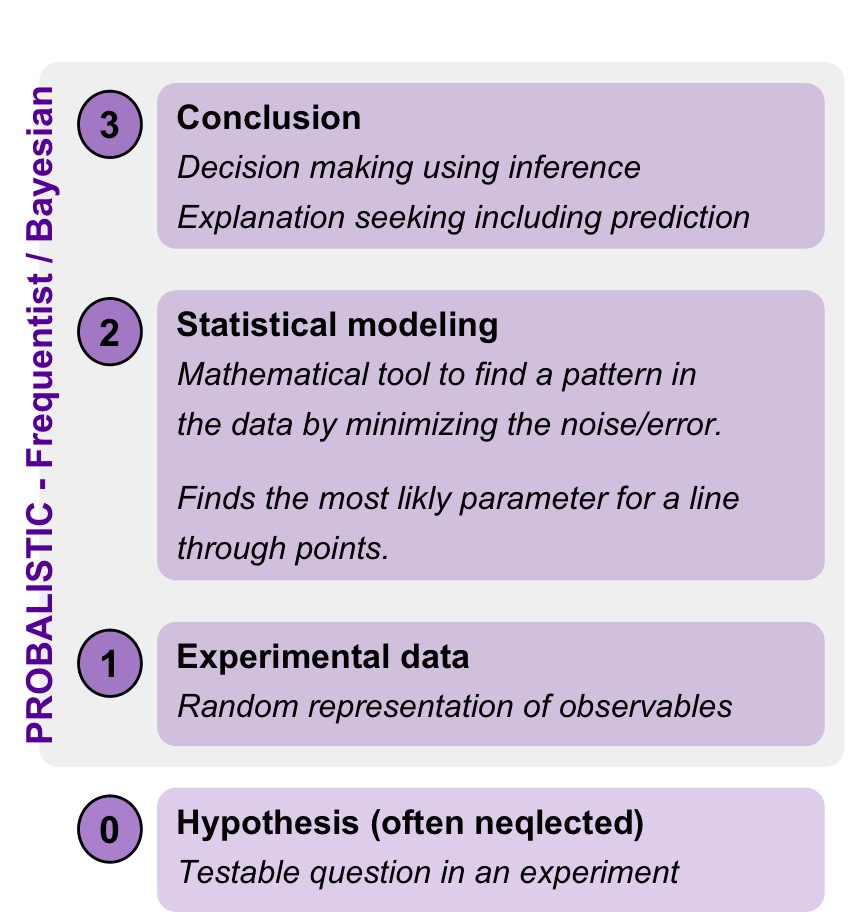
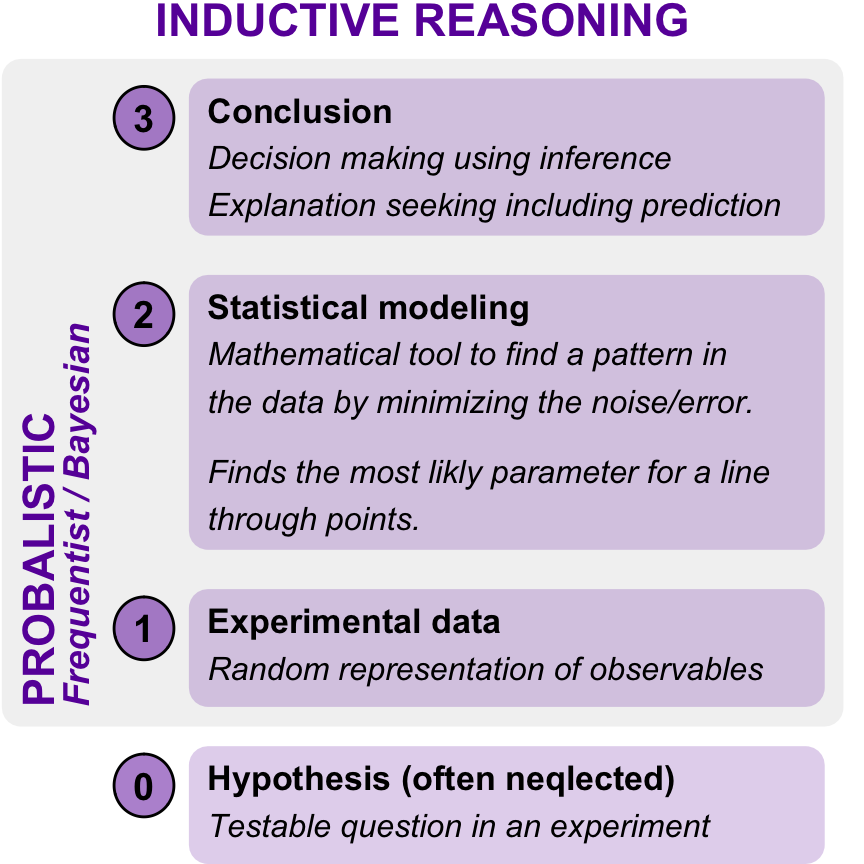
added

Changed region(s): [[0.0, 0.0938, 0.9062, 1.0], [0.1562, 0.0, 0.8125, 0.0625]]

diff --git a/docs/chapter-01-what-is-science.html b/docs/chapter-01-what-is-science.html
@@ -448,7 +448,7 @@ window.Quarto = {
 </header>
 
 
-<p><em>Last modified on 16. January 2026 at 19:18:03</em></p>
+<p><em>Last modified on 16. January 2026 at 19:46:25</em></p>
 <blockquote class="blockquote">
 <p><em>“Reality is negotiable.” — Tim Ferriss</em></p>
 </blockquote>
@@ -1220,7 +1220,7 @@ Figure&nbsp;1.3: fooo.
 <span id="cb1-94"><a href="#cb1-94" aria-hidden="true" tabindex="-1"></a><span class="co">#| echo: false</span></span>
 <span id="cb1-95"><a href="#cb1-95" aria-hidden="true" tabindex="-1"></a><span class="co">#| warning: false</span></span>
 <span id="cb1-96"><a href="#cb1-96" aria-hidden="true" tabindex="-1"></a><span class="co">#| fig-align: center</span></span>
-<span id="cb1-97"><a href="#cb1-97" aria-hidden="true" tabindex="-1"></a><span class="co">#| fig-height: 4.75</span></span>
+<span id="cb1-97"><a href="#cb1-97" aria-hidden="true" tabindex="-1"></a><span class="co">#| fig-height: 4.5</span></span>
 <span id="cb1-98"><a href="#cb1-98" aria-hidden="true" tabindex="-1"></a><span class="co">#| fig-width: 4.5</span></span>
 <span id="cb1-99"><a href="#cb1-99" aria-hidden="true" tabindex="-1"></a><span class="co">#| fig-cap: "fooo."</span></span>
 <span id="cb1-100"><a href="#cb1-100" aria-hidden="true" tabindex="-1"></a><span class="co">#| label: fig-statistic-inductive</span></span>
@@ -1228,11 +1228,11 @@ Figure&nbsp;1.3: fooo.
 <span id="cb1-102"><a href="#cb1-102" aria-hidden="true" tabindex="-1"></a><span class="fu">ggplot</span>() <span class="sc">+</span></span>
 <span id="cb1-103"><a href="#cb1-103" aria-hidden="true" tabindex="-1"></a>  <span class="fu">theme_void</span>() <span class="sc">+</span></span>
 <span id="cb1-104"><a href="#cb1-104" aria-hidden="true" tabindex="-1"></a>  <span class="do">##theme_minimal() +</span></span>
-<span id="cb1-105"><a href="#cb1-105" aria-hidden="true" tabindex="-1"></a>  <span class="fu">coord_cartesian</span>(<span class="at">xlim =</span> <span class="fu">c</span>(<span class="fl">0.5</span>, <span class="fl">10.5</span>), <span class="at">ylim =</span> <span class="fu">c</span>(<span class="fl">0.5</span>, <span class="sc">-</span><span class="fl">9.5</span>)) <span class="sc">+</span></span>
+<span id="cb1-105"><a href="#cb1-105" aria-hidden="true" tabindex="-1"></a>  <span class="fu">coord_cartesian</span>(<span class="at">xlim =</span> <span class="fu">c</span>(<span class="dv">0</span>, <span class="fl">10.5</span>), <span class="at">ylim =</span> <span class="fu">c</span>(<span class="fl">0.5</span>, <span class="sc">-</span><span class="fl">9.5</span>)) <span class="sc">+</span></span>
 <span id="cb1-106"><a href="#cb1-106" aria-hidden="true" tabindex="-1"></a>  <span class="fu">scale_x_continuous</span>(<span class="at">breaks =</span> <span class="fu">seq</span>(<span class="sc">-</span><span class="dv">10</span>, <span class="dv">10</span>, <span class="dv">1</span>)) <span class="sc">+</span></span>
 <span id="cb1-107"><a href="#cb1-107" aria-hidden="true" tabindex="-1"></a>  <span class="fu">scale_y_continuous</span>(<span class="at">breaks =</span> <span class="fu">seq</span>(<span class="sc">-</span><span class="dv">10</span>, <span class="dv">10</span>, <span class="dv">1</span>)) <span class="sc">+</span></span>
 <span id="cb1-108"><a href="#cb1-108" aria-hidden="true" tabindex="-1"></a>  <span class="do">## </span></span>
-<span id="cb1-109"><a href="#cb1-109" aria-hidden="true" tabindex="-1"></a>  <span class="fu">geom_shape</span>(<span class="at">data =</span> <span class="fu">tibble</span>(<span class="at">x =</span> <span class="fu">c</span>(<span class="fl">0.5</span>, <span class="fl">10.75</span>, <span class="fl">10.75</span>, <span class="fl">0.5</span>), </span>
+<span id="cb1-109"><a href="#cb1-109" aria-hidden="true" tabindex="-1"></a>  <span class="fu">geom_shape</span>(<span class="at">data =</span> <span class="fu">tibble</span>(<span class="at">x =</span> <span class="fu">c</span>(<span class="sc">-</span><span class="fl">0.5</span>, <span class="fl">10.75</span>, <span class="fl">10.75</span>, <span class="sc">-</span><span class="fl">0.5</span>), </span>
 <span id="cb1-110"><a href="#cb1-110" aria-hidden="true" tabindex="-1"></a>                           <span class="at">y =</span> <span class="fu">c</span>(<span class="sc">-</span><span class="fl">8.25</span>, <span class="sc">-</span><span class="fl">8.25</span>, <span class="fl">0.25</span>, <span class="fl">0.25</span>)),</span>
 <span id="cb1-111"><a href="#cb1-111" aria-hidden="true" tabindex="-1"></a>             <span class="fu">aes</span>(x, y), <span class="at">radius =</span> <span class="fu">unit</span>(<span class="fl">0.25</span>, <span class="st">'cm'</span>), <span class="at">fill =</span> <span class="st">"gray95"</span>) <span class="sc">+</span></span>
 <span id="cb1-112"><a href="#cb1-112" aria-hidden="true" tabindex="-1"></a>  <span class="do">##</span></span>
@@ -1280,66 +1280,72 @@ Figure&nbsp;1.3: fooo.
 <span id="cb1-154"><a href="#cb1-154" aria-hidden="true" tabindex="-1"></a>              <span class="at">fill =</span> <span class="st">"#6A00A880"</span>) <span class="sc">+</span></span>
 <span id="cb1-155"><a href="#cb1-155" aria-hidden="true" tabindex="-1"></a>  <span class="fu">annotate</span>(<span class="st">"text"</span>, <span class="at">x =</span> <span class="fu">c</span>(<span class="fl">1.5</span>, <span class="fl">1.5</span>, <span class="fl">1.5</span>, <span class="fl">1.5</span>)<span class="sc">-</span><span class="fl">0.1</span>, <span class="at">y =</span> <span class="fu">c</span>(<span class="sc">-</span><span class="fl">0.4</span>, <span class="sc">-</span><span class="fl">2.9</span>, <span class="sc">-</span><span class="fl">6.9</span>, <span class="sc">-</span><span class="fl">8.9</span>)<span class="sc">-</span><span class="fl">0.1</span>, <span class="at">label =</span> <span class="dv">3</span><span class="sc">:</span><span class="dv">0</span>,</span>
 <span id="cb1-156"><a href="#cb1-156" aria-hidden="true" tabindex="-1"></a>           <span class="at">size =</span> <span class="dv">5</span>, <span class="at">fontface =</span> <span class="dv">2</span>, <span class="at">color =</span> <span class="st">"black"</span>) <span class="sc">+</span></span>
-<span id="cb1-157"><a href="#cb1-157" aria-hidden="true" tabindex="-1"></a>  <span class="fu">annotate</span>(<span class="st">"text"</span>, <span class="at">x =</span> <span class="fl">0.5</span>, <span class="at">y =</span> <span class="sc">-</span><span class="dv">4</span>, <span class="at">angle =</span> <span class="dv">90</span>,</span>
-<span id="cb1-158"><a href="#cb1-158" aria-hidden="true" tabindex="-1"></a>           <span class="at">label =</span> <span class="st">"PROBALISTIC - Frequentist / Bayesian"</span>, <span class="at">size =</span> <span class="fl">4.75</span>, <span class="at">fontface =</span> <span class="dv">2</span>, </span>
-<span id="cb1-159"><a href="#cb1-159" aria-hidden="true" tabindex="-1"></a>           <span class="at">color =</span> <span class="st">"#6A00A8FF"</span>)</span>
-<span id="cb1-160"><a href="#cb1-160" aria-hidden="true" tabindex="-1"></a><span class="in">```</span> </span>
-<span id="cb1-161"><a href="#cb1-161" aria-hidden="true" tabindex="-1"></a>  </span>
-<span id="cb1-162"><a href="#cb1-162" aria-hidden="true" tabindex="-1"></a><span class="fu">## What is a good explanation?</span></span>
-<span id="cb1-163"><a href="#cb1-163" aria-hidden="true" tabindex="-1"></a></span>
-<span id="cb1-164"><a href="#cb1-164" aria-hidden="true" tabindex="-1"></a></span>
-<span id="cb1-165"><a href="#cb1-165" aria-hidden="true" tabindex="-1"></a><span class="fu">## Age of enlightment</span></span>
-<span id="cb1-166"><a href="#cb1-166" aria-hidden="true" tabindex="-1"></a></span>
-<span id="cb1-167"><a href="#cb1-167" aria-hidden="true" tabindex="-1"></a></span>
-<span id="cb1-168"><a href="#cb1-168" aria-hidden="true" tabindex="-1"></a><span class="fu">## General background</span></span>
+<span id="cb1-157"><a href="#cb1-157" aria-hidden="true" tabindex="-1"></a>  <span class="fu">annotate</span>(<span class="st">"text"</span>, <span class="at">x =</span> <span class="dv">0</span>, <span class="at">y =</span> <span class="sc">-</span><span class="dv">8</span>, <span class="at">angle =</span> <span class="dv">90</span>, <span class="at">hjust =</span> <span class="st">"left"</span>, </span>
+<span id="cb1-158"><a href="#cb1-158" aria-hidden="true" tabindex="-1"></a>           <span class="at">label =</span> <span class="st">"PROBALISTIC"</span>, <span class="at">size =</span> <span class="fl">5.75</span>, <span class="at">fontface =</span> <span class="dv">2</span>, </span>
+<span id="cb1-159"><a href="#cb1-159" aria-hidden="true" tabindex="-1"></a>           <span class="at">color =</span> <span class="st">"#6A00A8FF"</span>) <span class="sc">+</span></span>
+<span id="cb1-160"><a href="#cb1-160" aria-hidden="true" tabindex="-1"></a>  <span class="fu">annotate</span>(<span class="st">"text"</span>, <span class="at">x =</span> <span class="fl">0.5</span>, <span class="at">y =</span> <span class="sc">-</span><span class="dv">8</span>, <span class="at">angle =</span> <span class="dv">90</span>, <span class="at">hjust =</span> <span class="st">"left"</span>,</span>
+<span id="cb1-161"><a href="#cb1-161" aria-hidden="true" tabindex="-1"></a>           <span class="at">label =</span> <span class="st">"Frequentist / Bayesian"</span>, <span class="at">size =</span> <span class="fl">4.75</span>, <span class="at">fontface =</span> <span class="dv">4</span>, </span>
+<span id="cb1-162"><a href="#cb1-162" aria-hidden="true" tabindex="-1"></a>           <span class="at">color =</span> <span class="st">"#6A00A8FF"</span>) <span class="sc">+</span></span>
+<span id="cb1-163"><a href="#cb1-163" aria-hidden="true" tabindex="-1"></a>  <span class="fu">annotate</span>(<span class="st">"text"</span>, <span class="at">x =</span> <span class="fl">5.125</span>, <span class="at">y =</span> <span class="fl">0.75</span>, </span>
+<span id="cb1-164"><a href="#cb1-164" aria-hidden="true" tabindex="-1"></a>           <span class="at">label =</span> <span class="st">"INDUCTIVE REASONING"</span>, <span class="at">size =</span> <span class="dv">6</span>, <span class="at">fontface =</span> <span class="dv">2</span>, </span>
+<span id="cb1-165"><a href="#cb1-165" aria-hidden="true" tabindex="-1"></a>           <span class="at">color =</span> <span class="st">"#6A00A8FF"</span>)</span>
+<span id="cb1-166"><a href="#cb1-166" aria-hidden="true" tabindex="-1"></a><span class="in">```</span> </span>
+<span id="cb1-167"><a href="#cb1-167" aria-hidden="true" tabindex="-1"></a>  </span>
+<span id="cb1-168"><a href="#cb1-168" aria-hidden="true" tabindex="-1"></a><span class="fu">## What is a good explanation?</span></span>
 <span id="cb1-169"><a href="#cb1-169" aria-hidden="true" tabindex="-1"></a></span>
-<span id="cb1-170"><a href="#cb1-170" aria-hidden="true" tabindex="-1"></a><span class="at">&gt; *"Any sufficiently advanced technology is indistinguishable from magic." --- Arthur C. Clarke's Third Law @clarke1968clarke*</span></span>
-<span id="cb1-171"><a href="#cb1-171" aria-hidden="true" tabindex="-1"></a></span>
-<span id="cb1-172"><a href="#cb1-172" aria-hidden="true" tabindex="-1"></a>Full quote</span>
+<span id="cb1-170"><a href="#cb1-170" aria-hidden="true" tabindex="-1"></a></span>
+<span id="cb1-171"><a href="#cb1-171" aria-hidden="true" tabindex="-1"></a><span class="fu">## Age of enlightment</span></span>
+<span id="cb1-172"><a href="#cb1-172" aria-hidden="true" tabindex="-1"></a></span>
 <span id="cb1-173"><a href="#cb1-173" aria-hidden="true" tabindex="-1"></a></span>
-<span id="cb1-174"><a href="#cb1-174" aria-hidden="true" tabindex="-1"></a><span class="at">&gt; *"Reality is negotiable. Outside of science and law, all rules can be bent or broken, and it doesn’t require being unethical." --- Tim Ferriss*</span></span>
+<span id="cb1-174"><a href="#cb1-174" aria-hidden="true" tabindex="-1"></a><span class="fu">## General background</span></span>
 <span id="cb1-175"><a href="#cb1-175" aria-hidden="true" tabindex="-1"></a></span>
-<span id="cb1-176"><a href="#cb1-176" aria-hidden="true" tabindex="-1"></a>Idea of hypotheses</span>
+<span id="cb1-176"><a href="#cb1-176" aria-hidden="true" tabindex="-1"></a><span class="at">&gt; *"Any sufficiently advanced technology is indistinguishable from magic." --- Arthur C. Clarke's Third Law @clarke1968clarke*</span></span>
 <span id="cb1-177"><a href="#cb1-177" aria-hidden="true" tabindex="-1"></a></span>
-<span id="cb1-178"><a href="#cb1-178" aria-hidden="true" tabindex="-1"></a>Science is guessing and falsification</span>
+<span id="cb1-178"><a href="#cb1-178" aria-hidden="true" tabindex="-1"></a>Full quote</span>
 <span id="cb1-179"><a href="#cb1-179" aria-hidden="true" tabindex="-1"></a></span>
-<span id="cb1-180"><a href="#cb1-180" aria-hidden="true" tabindex="-1"></a>@chalmers2013thing <span class="co">[</span><span class="ot">What is this thing called Science?</span><span class="co">](https://www.pmf.unizg.hr/_download/repository/1._Dodatna_literatura_%28filozofija_znanosti%29%5B3%5D.pdf)</span></span>
+<span id="cb1-180"><a href="#cb1-180" aria-hidden="true" tabindex="-1"></a><span class="at">&gt; *"Reality is negotiable. Outside of science and law, all rules can be bent or broken, and it doesn’t require being unethical." --- Tim Ferriss*</span></span>
 <span id="cb1-181"><a href="#cb1-181" aria-hidden="true" tabindex="-1"></a></span>
-<span id="cb1-182"><a href="#cb1-182" aria-hidden="true" tabindex="-1"></a>@feynman1966science <span class="co">[</span><span class="ot">What is science</span><span class="co">](https://www-oc.chemie.uni-regensburg.de/diaz/media/docs/feynman_what-is-science_68.pdf)</span></span>
+<span id="cb1-182"><a href="#cb1-182" aria-hidden="true" tabindex="-1"></a>Idea of hypotheses</span>
 <span id="cb1-183"><a href="#cb1-183" aria-hidden="true" tabindex="-1"></a></span>
-<span id="cb1-184"><a href="#cb1-184" aria-hidden="true" tabindex="-1"></a>@campbell1952science <span class="co">[</span><span class="ot">What is science?</span><span class="co">](https://www.whatisscience.info/files/what_is_science_rd1.pdf)</span></span>
+<span id="cb1-184"><a href="#cb1-184" aria-hidden="true" tabindex="-1"></a>Science is guessing and falsification</span>
 <span id="cb1-185"><a href="#cb1-185" aria-hidden="true" tabindex="-1"></a></span>
-<span id="cb1-186"><a href="#cb1-186" aria-hidden="true" tabindex="-1"></a>@clark2025models <span class="co">[</span><span class="ot">Models Demystified: A Practical Guide from Linear Regression to Deep Learning</span><span class="co">](https://m-clark.github.io/book-of-models/)</span></span>
+<span id="cb1-186"><a href="#cb1-186" aria-hidden="true" tabindex="-1"></a>@chalmers2013thing <span class="co">[</span><span class="ot">What is this thing called Science?</span><span class="co">](https://www.pmf.unizg.hr/_download/repository/1._Dodatna_literatura_%28filozofija_znanosti%29%5B3%5D.pdf)</span></span>
 <span id="cb1-187"><a href="#cb1-187" aria-hidden="true" tabindex="-1"></a></span>
-<span id="cb1-188"><a href="#cb1-188" aria-hidden="true" tabindex="-1"></a>@cox2017statistical <span class="co">[</span><span class="ot">Statistical Thinking for the 21st Century</span><span class="co">](https://statsthinking21.github.io/statsthinking21-core-site/index.html)</span></span>
+<span id="cb1-188"><a href="#cb1-188" aria-hidden="true" tabindex="-1"></a>@feynman1966science <span class="co">[</span><span class="ot">What is science</span><span class="co">](https://www-oc.chemie.uni-regensburg.de/diaz/media/docs/feynman_what-is-science_68.pdf)</span></span>
 <span id="cb1-189"><a href="#cb1-189" aria-hidden="true" tabindex="-1"></a></span>
-<span id="cb1-190"><a href="#cb1-190" aria-hidden="true" tabindex="-1"></a>@deutsch2011beginning <span class="co">[</span><span class="ot">The beginning of infinity: Explanations that transform the world</span><span class="co">](https://www.academia.edu/download/106176299/rtx120400544p.pdf)</span></span>
+<span id="cb1-190"><a href="#cb1-190" aria-hidden="true" tabindex="-1"></a>@campbell1952science <span class="co">[</span><span class="ot">What is science?</span><span class="co">](https://www.whatisscience.info/files/what_is_science_rd1.pdf)</span></span>
 <span id="cb1-191"><a href="#cb1-191" aria-hidden="true" tabindex="-1"></a></span>
-<span id="cb1-192"><a href="#cb1-192" aria-hidden="true" tabindex="-1"></a><span class="co">[</span><span class="ot">David Deutsch &gt; Quotes</span><span class="co">](https://www.goodreads.com/author/quotes/103190.David_Deutsch)</span></span>
+<span id="cb1-192"><a href="#cb1-192" aria-hidden="true" tabindex="-1"></a>@clark2025models <span class="co">[</span><span class="ot">Models Demystified: A Practical Guide from Linear Regression to Deep Learning</span><span class="co">](https://m-clark.github.io/book-of-models/)</span></span>
 <span id="cb1-193"><a href="#cb1-193" aria-hidden="true" tabindex="-1"></a></span>
-<span id="cb1-194"><a href="#cb1-194" aria-hidden="true" tabindex="-1"></a><span class="fu">## Theoretical background</span></span>
+<span id="cb1-194"><a href="#cb1-194" aria-hidden="true" tabindex="-1"></a>@cox2017statistical <span class="co">[</span><span class="ot">Statistical Thinking for the 21st Century</span><span class="co">](https://statsthinking21.github.io/statsthinking21-core-site/index.html)</span></span>
 <span id="cb1-195"><a href="#cb1-195" aria-hidden="true" tabindex="-1"></a></span>
-<span id="cb1-196"><a href="#cb1-196" aria-hidden="true" tabindex="-1"></a><span class="fu">## R packages used</span></span>
+<span id="cb1-196"><a href="#cb1-196" aria-hidden="true" tabindex="-1"></a>@deutsch2011beginning <span class="co">[</span><span class="ot">The beginning of infinity: Explanations that transform the world</span><span class="co">](https://www.academia.edu/download/106176299/rtx120400544p.pdf)</span></span>
 <span id="cb1-197"><a href="#cb1-197" aria-hidden="true" tabindex="-1"></a></span>
-<span id="cb1-198"><a href="#cb1-198" aria-hidden="true" tabindex="-1"></a><span class="fu">## Data</span></span>
+<span id="cb1-198"><a href="#cb1-198" aria-hidden="true" tabindex="-1"></a><span class="co">[</span><span class="ot">David Deutsch &gt; Quotes</span><span class="co">](https://www.goodreads.com/author/quotes/103190.David_Deutsch)</span></span>
 <span id="cb1-199"><a href="#cb1-199" aria-hidden="true" tabindex="-1"></a></span>
-<span id="cb1-200"><a href="#cb1-200" aria-hidden="true" tabindex="-1"></a><span class="fu">## Alternatives </span></span>
+<span id="cb1-200"><a href="#cb1-200" aria-hidden="true" tabindex="-1"></a><span class="fu">## Theoretical background</span></span>
 <span id="cb1-201"><a href="#cb1-201" aria-hidden="true" tabindex="-1"></a></span>
-<span id="cb1-202"><a href="#cb1-202" aria-hidden="true" tabindex="-1"></a>Further tutorials and R packages on XXX</span>
+<span id="cb1-202"><a href="#cb1-202" aria-hidden="true" tabindex="-1"></a><span class="fu">## R packages used</span></span>
 <span id="cb1-203"><a href="#cb1-203" aria-hidden="true" tabindex="-1"></a></span>
-<span id="cb1-204"><a href="#cb1-204" aria-hidden="true" tabindex="-1"></a><span class="fu">## Glossary</span></span>
+<span id="cb1-204"><a href="#cb1-204" aria-hidden="true" tabindex="-1"></a><span class="fu">## Data</span></span>
 <span id="cb1-205"><a href="#cb1-205" aria-hidden="true" tabindex="-1"></a></span>
-<span id="cb1-206"><a href="#cb1-206" aria-hidden="true" tabindex="-1"></a>term</span>
+<span id="cb1-206"><a href="#cb1-206" aria-hidden="true" tabindex="-1"></a><span class="fu">## Alternatives </span></span>
 <span id="cb1-207"><a href="#cb1-207" aria-hidden="true" tabindex="-1"></a></span>
-<span id="cb1-208"><a href="#cb1-208" aria-hidden="true" tabindex="-1"></a>: what does it mean.</span>
+<span id="cb1-208"><a href="#cb1-208" aria-hidden="true" tabindex="-1"></a>Further tutorials and R packages on XXX</span>
 <span id="cb1-209"><a href="#cb1-209" aria-hidden="true" tabindex="-1"></a></span>
-<span id="cb1-210"><a href="#cb1-210" aria-hidden="true" tabindex="-1"></a><span class="fu">## The meaning of "Models of Reality" in this chapter.</span></span>
+<span id="cb1-210"><a href="#cb1-210" aria-hidden="true" tabindex="-1"></a><span class="fu">## Glossary</span></span>
 <span id="cb1-211"><a href="#cb1-211" aria-hidden="true" tabindex="-1"></a></span>
-<span id="cb1-212"><a href="#cb1-212" aria-hidden="true" tabindex="-1"></a><span class="ss">- </span>itemize with max. 5-6 words</span>
+<span id="cb1-212"><a href="#cb1-212" aria-hidden="true" tabindex="-1"></a>term</span>
 <span id="cb1-213"><a href="#cb1-213" aria-hidden="true" tabindex="-1"></a></span>
-<span id="cb1-214"><a href="#cb1-214" aria-hidden="true" tabindex="-1"></a><span class="fu">## Summary</span></span>
+<span id="cb1-214"><a href="#cb1-214" aria-hidden="true" tabindex="-1"></a>: what does it mean.</span>
 <span id="cb1-215"><a href="#cb1-215" aria-hidden="true" tabindex="-1"></a></span>
-<span id="cb1-216"><a href="#cb1-216" aria-hidden="true" tabindex="-1"></a><span class="fu">## References {.unnumbered}</span></span>
+<span id="cb1-216"><a href="#cb1-216" aria-hidden="true" tabindex="-1"></a><span class="fu">## The meaning of "Models of Reality" in this chapter.</span></span>
+<span id="cb1-217"><a href="#cb1-217" aria-hidden="true" tabindex="-1"></a></span>
+<span id="cb1-218"><a href="#cb1-218" aria-hidden="true" tabindex="-1"></a><span class="ss">- </span>itemize with max. 5-6 words</span>
+<span id="cb1-219"><a href="#cb1-219" aria-hidden="true" tabindex="-1"></a></span>
+<span id="cb1-220"><a href="#cb1-220" aria-hidden="true" tabindex="-1"></a><span class="fu">## Summary</span></span>
+<span id="cb1-221"><a href="#cb1-221" aria-hidden="true" tabindex="-1"></a></span>
+<span id="cb1-222"><a href="#cb1-222" aria-hidden="true" tabindex="-1"></a><span class="fu">## References {.unnumbered}</span></span>
 </code></pre></div><button title="Copy to Clipboard" class="code-copy-button" data-in-quarto-modal=""><i class="bi"></i></button></div>
 </div></div></div></div></div>
 </div> <!-- /content -->
